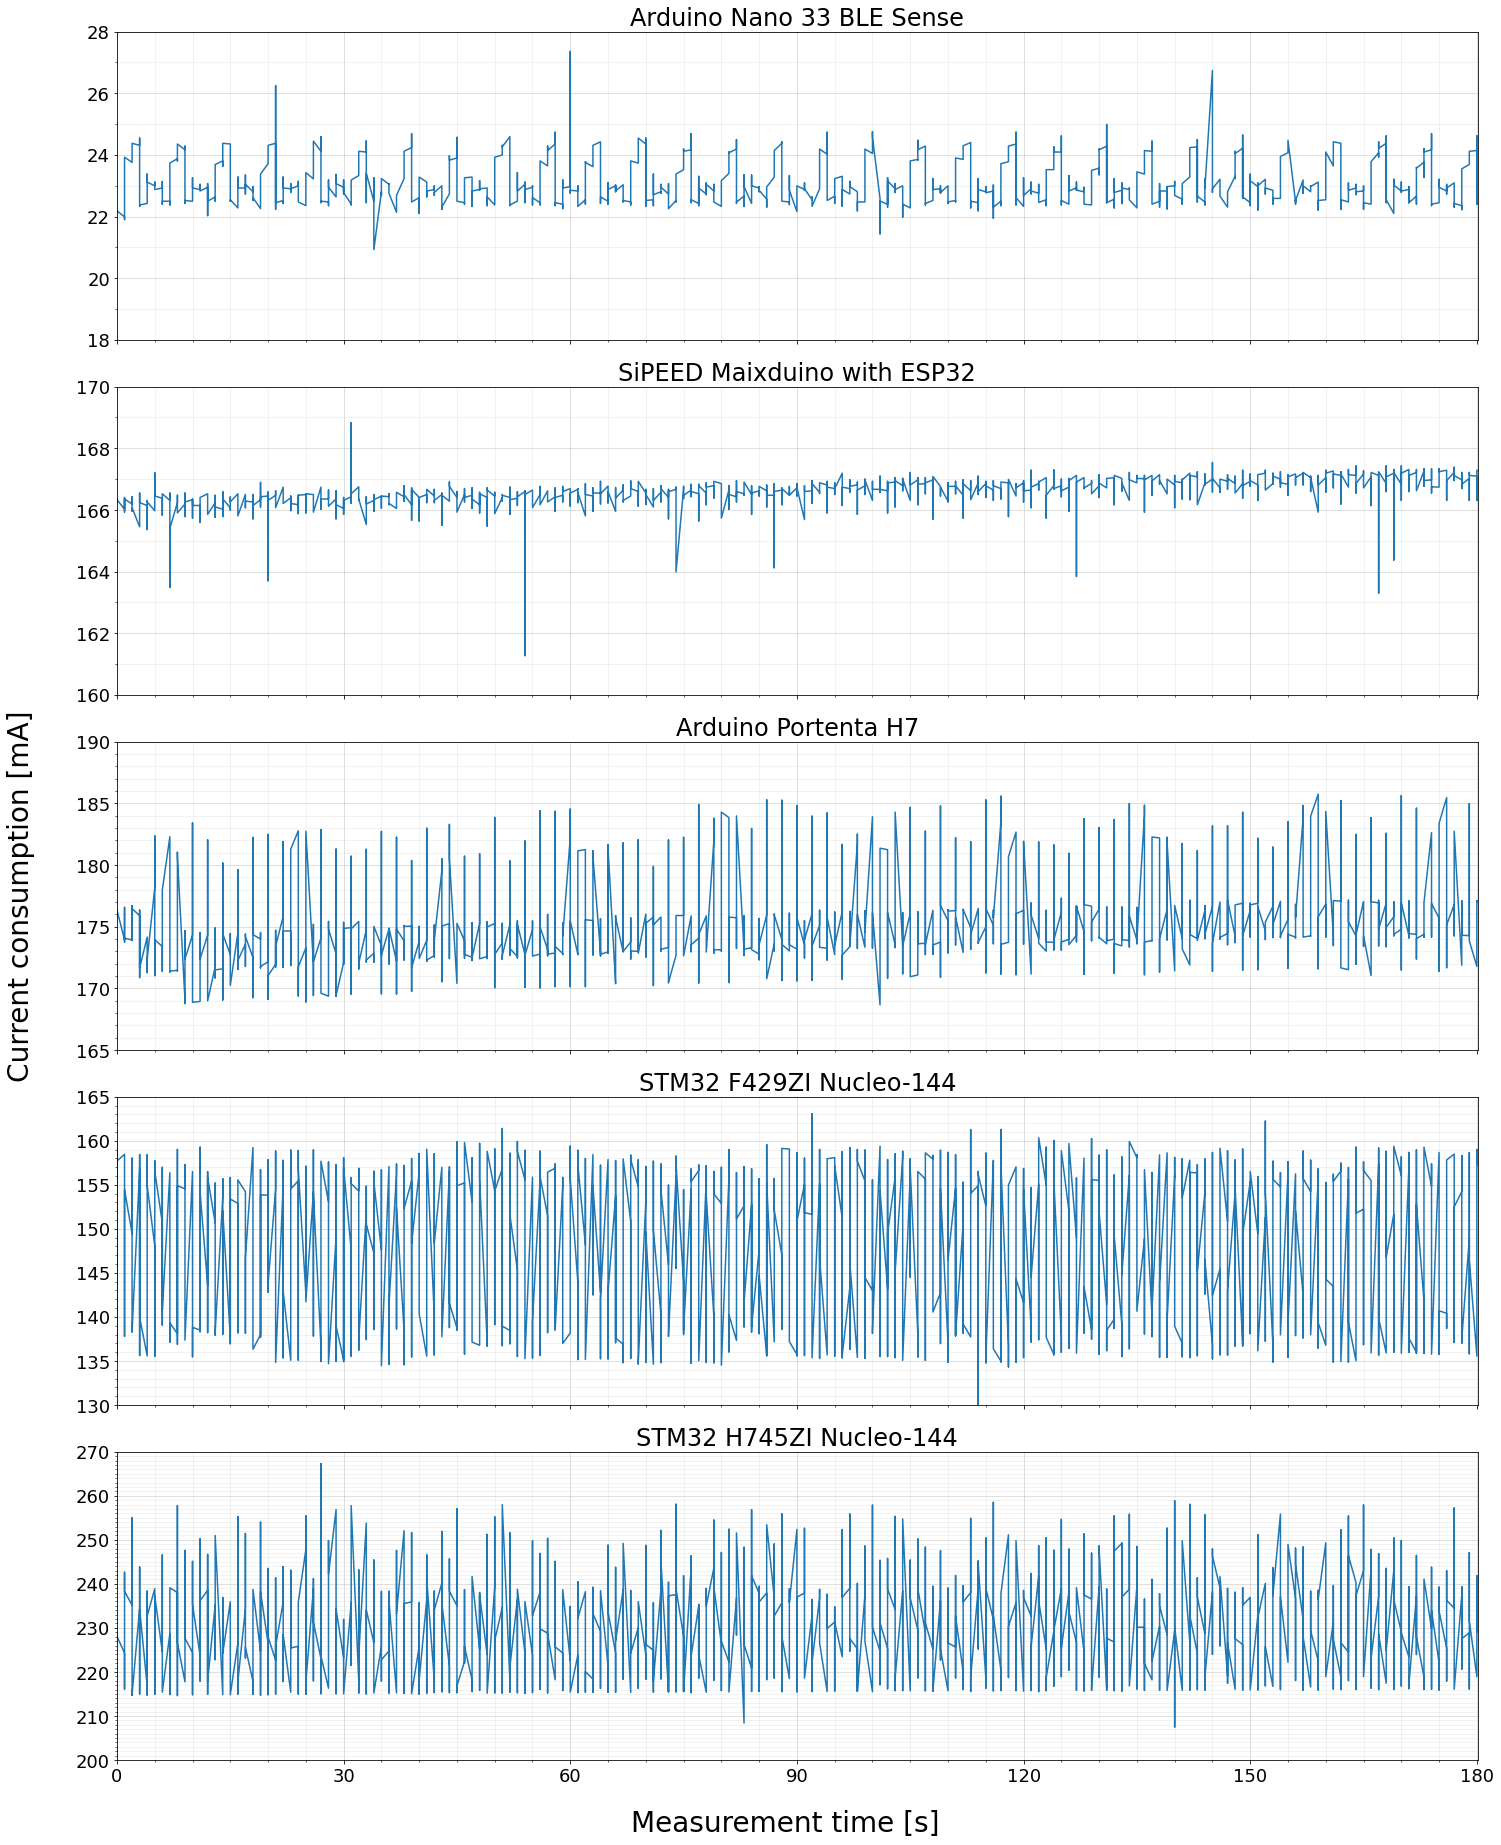
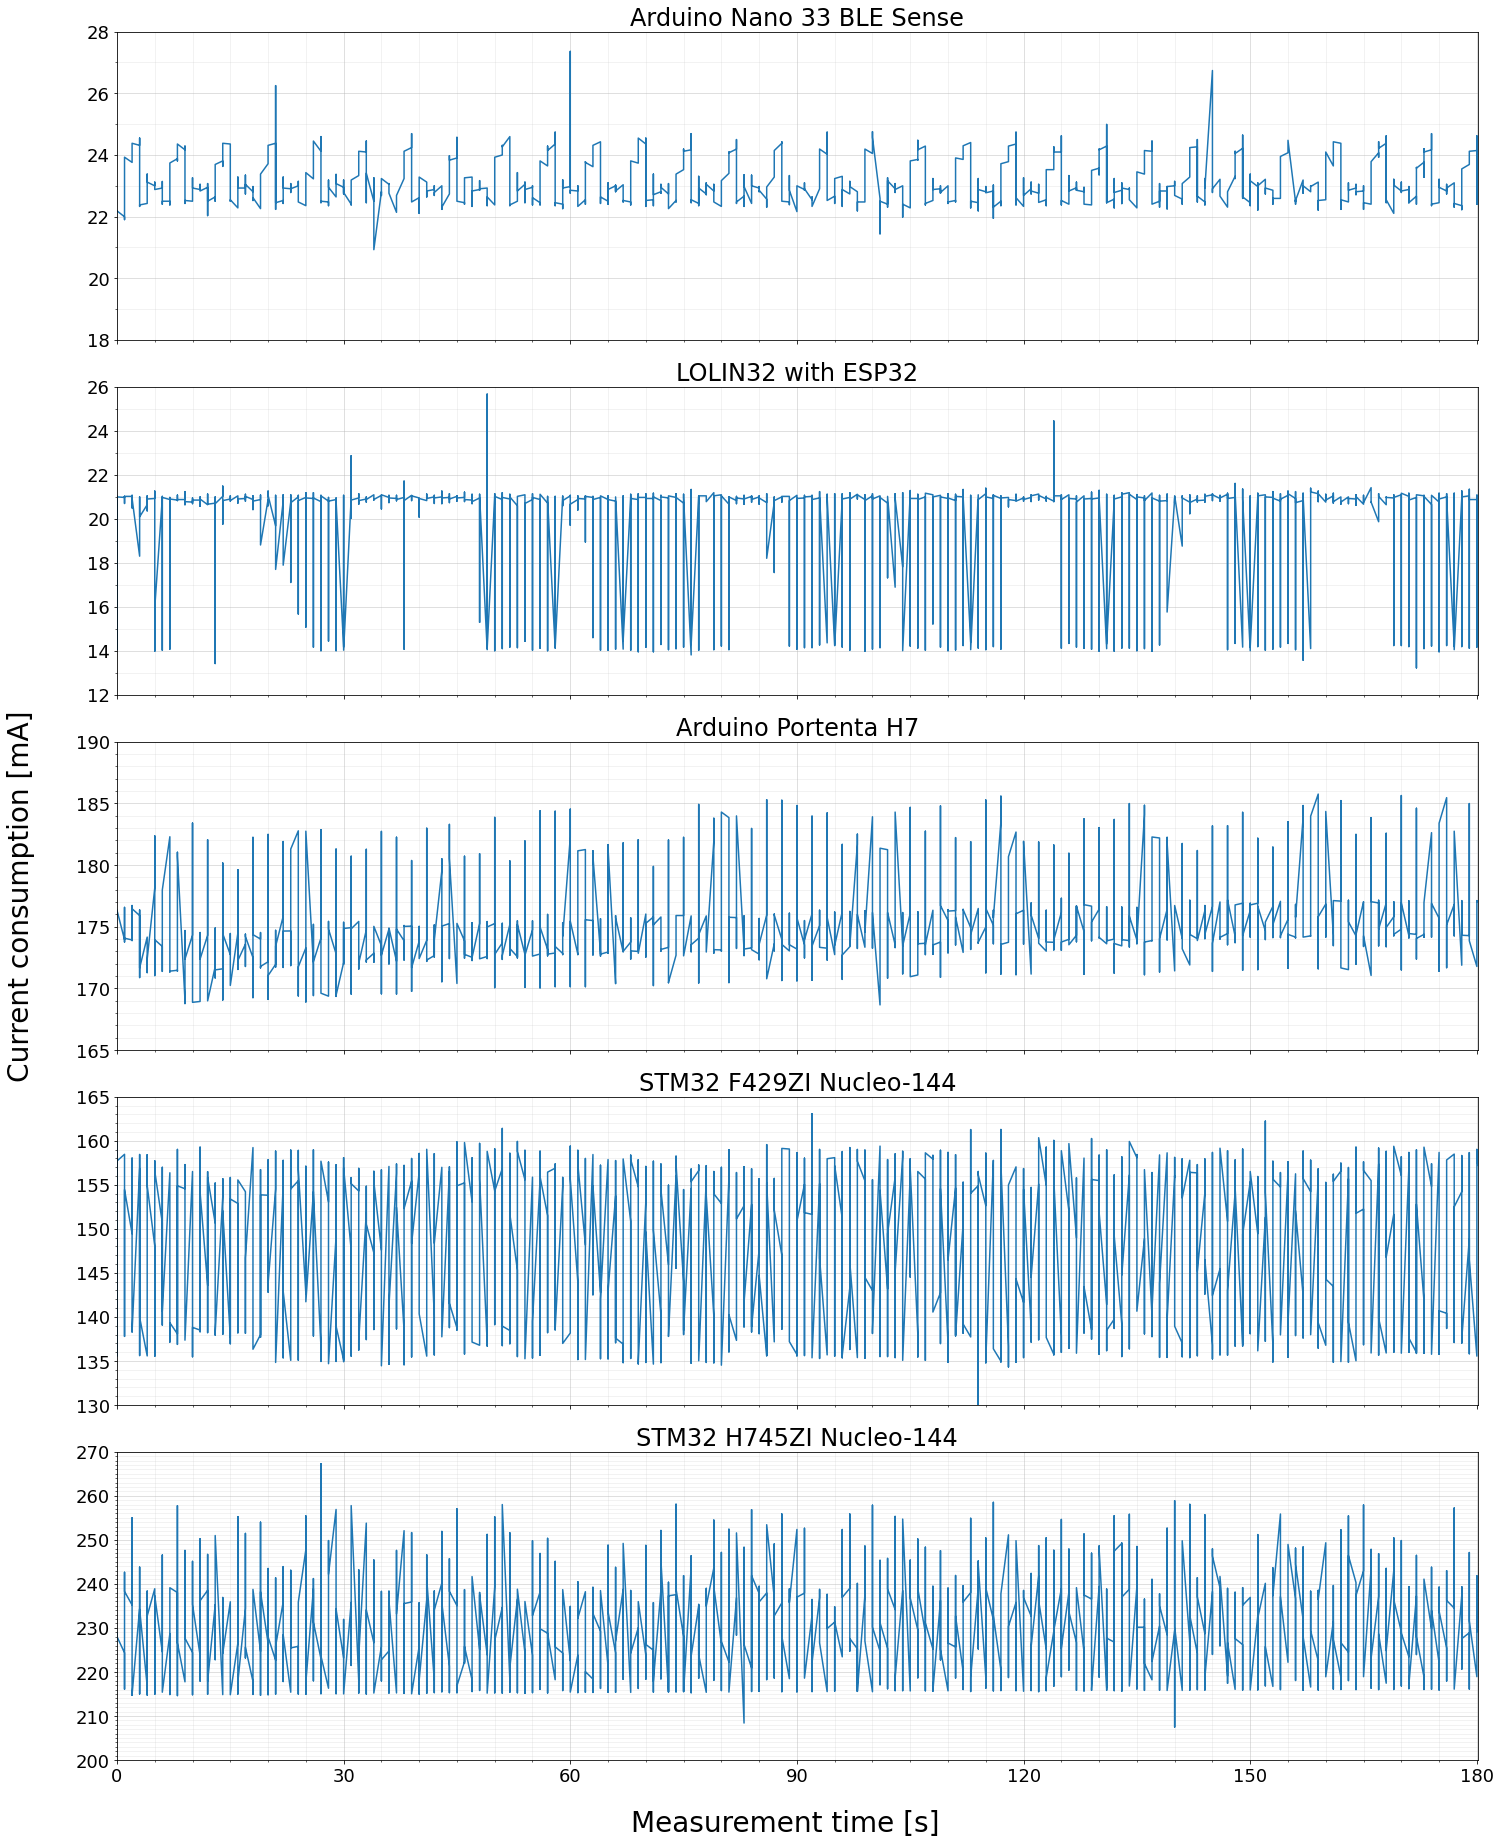
Update records and add early access citation

Changed region(s): [[0.0613, 0.2163, 0.9807, 0.3707], [0.429, 0.1854, 0.6436, 0.2163]]

diff --git a/README.md b/README.md
@@ -1,10 +1,10 @@
 # Hardware Benchmark of Presence Monitoring in Thermal Images
 
-This is an official repository for *Efficient People Counting in Thermal Images: The Benchmark of Resource-Constrained Hardware* paper.
+> This is the official repository of the paper: [*Efficient People Counting in Thermal Images: The Benchmark of Resource-Constrained Hardware*](https://ieeexplore.ieee.org/document/9964383).
 
-The repository includes code for reproducing obtained results in the aforementioned publication and is organized as follows:
+The repository includes the code for reproducing experiments and obtaining results from the aforementioned publication. This repository is organized as follows:
 - [thermo](./thermo/) directory contains code and scripts related to model training, optimization, and quantization phases,
-- [evaluation](./evaluation/) folder consists of hardware deployment, inference and evaluation tools. 
+- [evaluation](./evaluation/) folder consists of hardware deployment, inference, and evaluation tools. 
 
 
 ## Table of contents
@@ -17,6 +17,18 @@ The repository includes code for reproducing obtained results in the aforementio
 
 ## Citation
 
+```
+@ARTICLE{9964383,
+  author={Piechocki, Mateusz and Kraft, Marek and Pajchrowski, Tomasz and Aszkowski, Przemyslaw and Pieczynski, Dominik},
+  journal={IEEE Access}, 
+  title={Efficient People Counting in Thermal Images: The Benchmark of Resource-Constrained Hardware}, 
+  year={2022},
+  volume={},
+  number={},
+  pages={1-1},
+  doi={10.1109/ACCESS.2022.3225233}
+}
+```
 
 ## Dataset
 
@@ -37,23 +49,23 @@ The benchmark utilizes [Thermo Presence](https://github.com/PUTvision/thermo-pre
 
 <div align="center">
 
-| Device                       | Target Hardware      | Max Clock Frequency     | FLASH | SRAM   | Evaluation Framework |
-|------------------------------|:--------------------:|:-----------------------:|:-----:|:------:|:--------------------:|
-| [Arduino Nano 33 BLE Sense](https://docs.arduino.cc/hardware/nano-33-ble-sense) | nRF52840 | 64 MHz | 1 MB | 256 KB | TFLite Micro |
-| [Arduino Portenta H7](http://store.arduino.cc/products/portenta-h7) | STM32H747 | 480 MHz | 2 MB | 1 MB | TFLite Micro |
-| [STM32 F429ZI Nucleo-144](https://www.st.com/en/evaluation-tools/nucleo-f429zi.html) | STM32F429 | 180 MHz | 2 MB | 256 KB | STM32 Cube AI |
-| [STM32 H745ZI Nucleo-144](https://www.st.com/en/evaluation-tools/nucleo-h745zi-q.html) | STM32H745 | 480 MHz | 2 MB | 1 MB | STM32 Cube AI |
-| [SiPEED MAiXDUINO](https://www.seeedstudio.com/Sipeed-Maixduino-Kit-for-RISC-V-AI-IoT-p-4047.html) | ESP32-WROOM-32 | 240 MHz | 4 MB | 520 KB | TFLite Micro |
-| [Raspberry Pi 4B](https://www.raspberrypi.com/products/raspberry-pi-4-model-b/) | Quad Core Cortex-A72 | 1.5 GHz | * | 2 GB | TensorFlow Lite |
-| [Coral USB Accelerator](https://coral.ai/products/accelerator/) | Google Edge TPU | 500 MHz | * | 8 MB | TensorFlow Lite |
-| [Intel Neural Compute Stick 2](https://ark.intel.com/content/www/us/en/ark/products/140109/intel-neural-compute-stick-2.html) | Intel Movidius Myriad X Vision Processing Unit | 700 MHz | * | 4 GB | OpenVINO |
+| Device                                                                                         | Target Hardware | Max Clock Frequency | FLASH | SRAM   | Evaluation Framework            |
+|------------------------------------------------------------------------------------------------|:---------------:|:-------------------:|:-----:|:------:|:-------------------------------:|
+| [Arduino Nano 33 BLE Sense](https://docs.arduino.cc/hardware/nano-33-ble-sense)                        | nRF52840             | 64 MHz  | 1 MB | 256 KB | TFLite Micro                    |
+| [Arduino Portenta H7](http://store.arduino.cc/products/portenta-h7)                                    | STM32H747            | 480 MHz | 2 MB | 1 MB   | TFLite Micro                    |
+| [STM32 F429ZI Nucleo-144](https://www.st.com/en/evaluation-tools/nucleo-f429zi.html)                   | STM32F429            | 180 MHz | 2 MB | 256 KB | STM32 Cube AI                   |
+| [STM32 H745ZI Nucleo-144](https://www.st.com/en/evaluation-tools/nucleo-h745zi-q.html)                 | STM32H745            | 480 MHz | 2 MB | 1 MB   | STM32 Cube AI                   |
+| [LOLIN32](https://www.mischianti.org/2021/02/21/esp32-wemos-lolin32-high-resolution-pinout-and-specs/) | ESP32-WROOM-32       | 240 MHz | 4 MB | 520 KB | TFLite Micro with ESP-NN support|
+| [Raspberry Pi 4B](https://www.raspberrypi.com/products/raspberry-pi-4-model-b/)                        | Quad Core Cortex-A72 | 1.5 GHz | *    | 2 GB   | TensorFlow Lite                 |
+| [Coral USB Accelerator](https://coral.ai/products/accelerator/)                                        | Google Edge TPU      | 500 MHz | *    | 8 MB   | TensorFlow Lite                 |
+|[Intel Neural Compute Stick 2](https://ark.intel.com/content/www/us/en/ark/products/140109/intel-neural-compute-stick-2.html)| Intel Movidius Myriad X VPU | 700 MHz | * | 4 GB | OpenVINO |
 
 </div>
 
 
 ## Neural Network Architecture
 
-The neural network is based on U-Net architecture with shallow structure, single input, and output. The proposed model has only 46 577 parameters.
+The neural network is based on U-Net architecture with shallow structure, single-channel input, and output. The proposed model has only 46 577 parameters.
 
 <p align="center">
   <img width='800px' src="./README/nn_architecture.png" />
@@ -64,16 +76,9 @@ The neural network is based on U-Net architecture with shallow structure, single
 
 <div align="center">
 
-| Metric Name | Results |
-|-------------|:-------:|
-| MAE | 0.1057 |
-| MSE | 0.0332 |
-| Counting MAE | 0.0226 |
-| Counting MSE | 0.0234 |
-| Counting MRAE | 0.0081 |
-| Accuracy | 0.9778 |
-| F1 Score | 0.9782 |
-| No. of parameters | 46 577 |
+| **Metric Name** | MAE    | MSE    | Counting MAE | Counting MSE | Counting MRAPE [%] | Accuracy | F1 Score | No. of parameters |
+|:---------------:|:------:|:------:|:------------:|:------------:|:------------------:|:--------:|:--------:|:-----------------:|
+| **Results**     | 0.1057 | 0.0332 | 0.0226       | 0.0234       | 0.81               | 0.9778   | 0.9782   | 46 577            |
 
 </div>
 
@@ -81,21 +86,21 @@ The neural network is based on U-Net architecture with shallow structure, single
 
 <div align="center">
 
-| Device | Data Type | Avg. Inference Time [ms] | MAE | MSE |
-|--------|:---------:|:------------------------:|:---:|:---:|
-| Arduino Nano 33 BLE Sense | INT8 | 1430.1253 ±1.1427 | 0.1070 | 0.0335 |
-| Arduino Portenta H7 | INT8 | 137.494 ±0.5 | 0.1070 | 0.0335 |
-| STM32 F429ZI Nucleo-144 | INT8 | 230.939 ±0.1 | 0.1195 | 0.0428 |
-| STM32 H745ZI Nucleo-144 | FP32 | 165.983 ±0.1 | 0.1057 | 0.0332 |
-| | INT8 | 53.2600 ±0.1 | 0.1195 | 0.0428 |
-| SiPEED MAiXDUINO | INT8 |  |  |  |
-| Raspberry Pi 4B | FP32 | 7.7065 ±0.591 | 0.1057 | 0.0332 |
-| Raspberry Pi 4B | FP16 | 7.6900 ±0.5584 | 0.1058 | 0.0332 |
-| Raspberry Pi 4B | INT8 | 4.1939 ±0.052 | 0.1201 | 0.0429 |
-| Raspberry Pi 4B + Coral USB Accelerator (std) | INT8 | 0.6051 ±0.0443 | 0.1201 | 0.0431 |
-| Raspberry Pi 4B + Coral USB Accelerator (max) | INT8 | 0.5699 ±0.0601 | 0.1201 | 0.0431 |
-| Raspberry Pi 4B + Intel Neural Compute Stick 2  | FP32 | 2.6297 ±0.159 | 0.1338 | 0.0430 |
-| | FP16 | 2.3001 ±0.1 | 0.1338 | 0.0430 |
+| Device                                          | Data Type | Avg. Inference Time [ms]  | Counting MAE | Counting MSE | Counting MRAPE [%]  |
+|-------------------------------------------------|:---------:|:-------------------------:|:------------:|:------------:|:-------------------:|
+| Arduino Nano 33 BLE Sense                       | INT8      | 1430.125 ±1.143           | 0.023        | 0.024        | 0.82                |
+| Arduino Portenta H7                             | INT8      | 137.494 ±0.500            | 0.023        | 0.024        | 0.82                |
+| STM32 F429ZI Nucleo-144                         | INT8      | 230.939 ±0.100            | 0.036        | 0.038        | 1.14                |
+| STM32 H745ZI Nucleo-144                         | FP32      | 165.983 ±0.100            | 0.023        | 0.023        | 0.81                |
+|                                                 | INT8      | 53.260 ±0.100             | 0.036        | 0.038        | 1.14                |
+| LOLIN32                                         | INT8      | 840.442 ±0.021            | 0.023        | 0.023        | 0.81                |
+| Raspberry Pi 4B                                 | FP32      | 7.707 ±0.591              | 0.023        | 0.023        | 0.81                |
+|                                                 | FP16      | 7.690 ±0.558              | 0.023        | 0.023        | 0.81                |
+|                                                 | INT8      | 4.194 ±0.052              | 0.038        | 0.039        | 1.18                |
+| Raspberry Pi 4B + Coral USB Accelerator (std)   | INT8      | 0.605 ±0.044              | 0.037        | 0.038        | 1.16                |
+| Raspberry Pi 4B + Coral USB Accelerator (max)   | INT8      | 0.570 ±0.060              | 0.037        | 0.038        | 1.16                |
+| Raspberry Pi 4B + Intel Neural Compute Stick 2  | FP32      | 2.630 ±0.159              | 0.028        | 0.029        | 0.92                |
+|                                                 | FP16      | 2.300 ±0.100              | 0.028        | 0.029        | 0.91                |
 
 </div>
 
